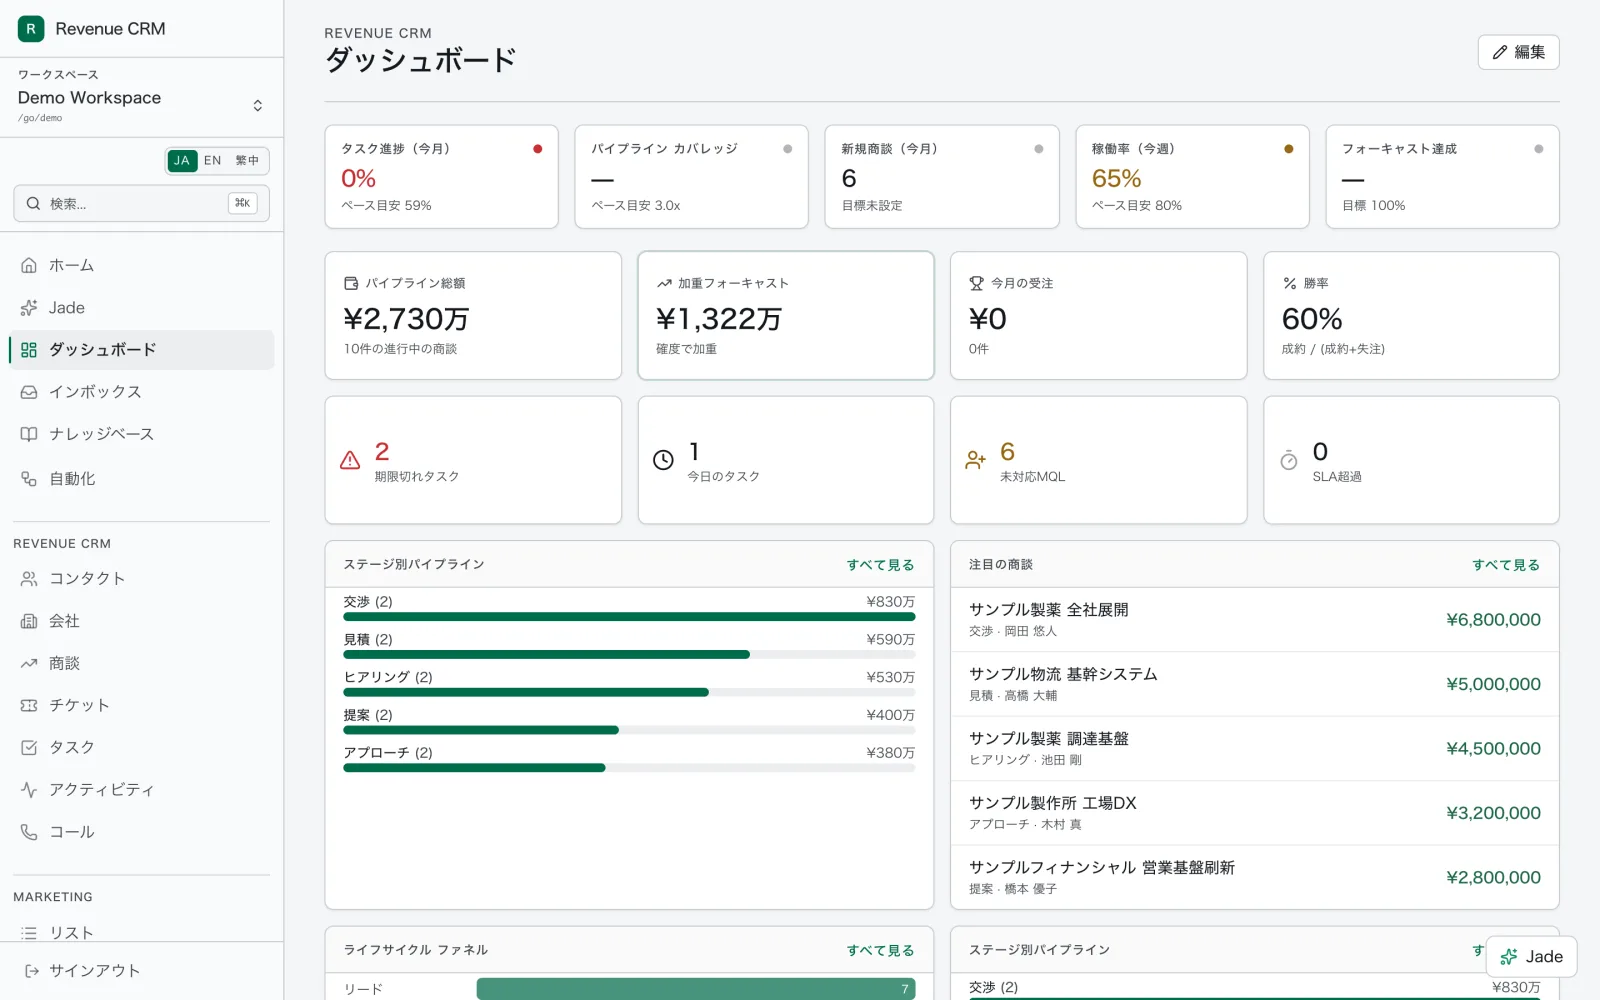
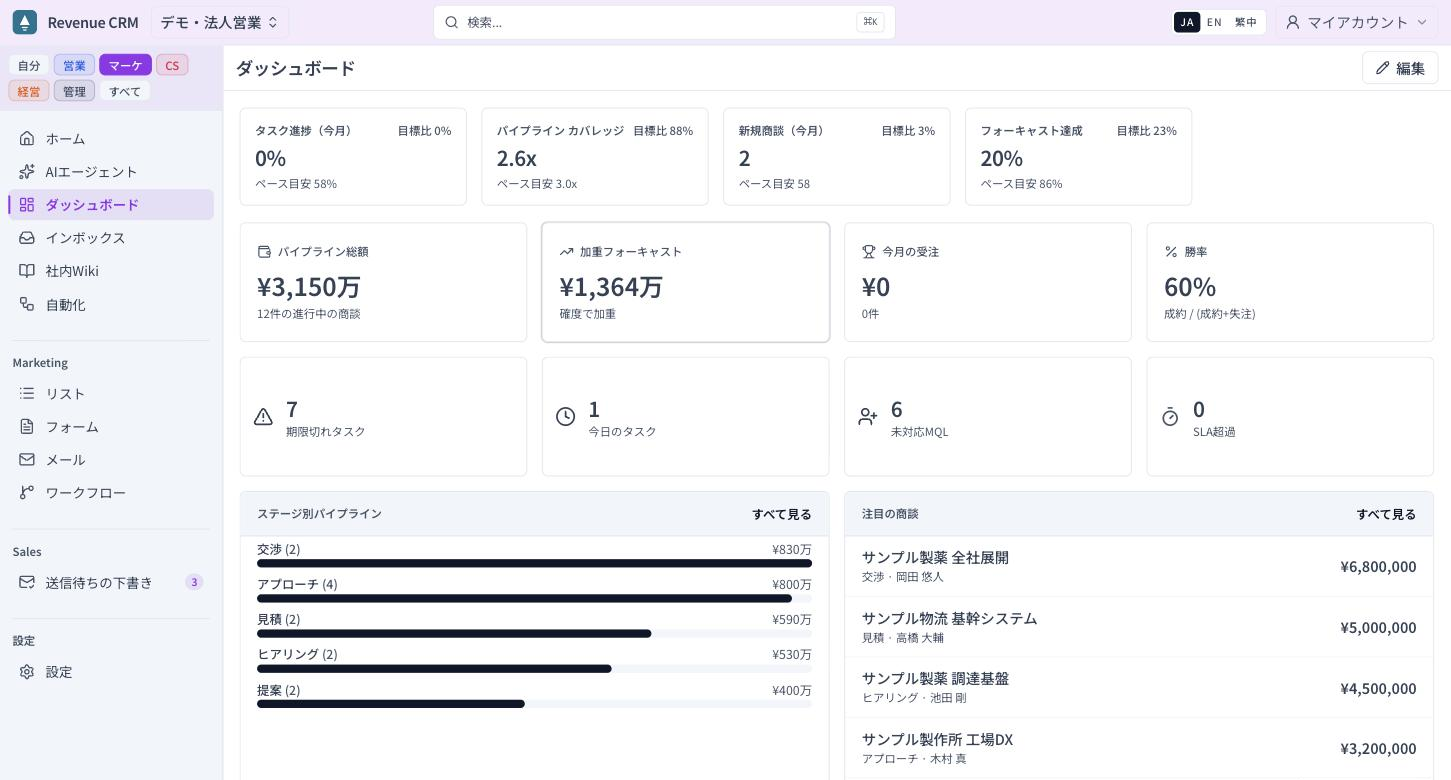
掲載素材を現行のロゴと画面に差し替える
媒体へ渡すのは docs/listing-assets/ ごと、という前提で中身を揃えた。

- 製品ロゴを #0E7490 に差し替え、SVGと1024/512/256/128/64のPNGを揃えた。
  旧ジェード緑 #006D4C は廃止。
- スクリーンショットを現行UIのものに差し替え、自動化ライブラリの1枚を追加した。
- 旧名のままだった screen-jade.png を外した。
- 何がどれで、何がまだ古いのかを README.md に書いた。

AIエージェント画面は、デモ環境のデプロイが main より古く見出しが英語のままなので
入れていない。デプロイ後に撮り直して追加する。

Claude-Session: https://claude.ai/code/session_01VKJWYJmQKX7Dj79s1g3fNb

diff --git a/docs/listing-assets/README.md b/docs/listing-assets/README.md
@@ -1,0 +1,23 @@
+# Revenue CRM 掲載用素材
+
+転記元の文言・数値は `../crm-listing-master.md`。このフォルダは画像だけ。
+
+最終更新: 2026-09-20
+
+## 中身
+
+| ファイル | 用途 |
+|---|---|
+| `revenue-crm-logo.svg` | 製品ロゴ（正）。地 #0E7490 / 図形 白 |
+| `revenue-crm-logo-{1024,512,256,128,64}.png` | 同上。正方形。媒体の指定サイズに近いものを選ぶ |
+| `screen-dashboard.png` | ダッシュボード（1451x780） |
+| `screen-deals.png` | 商談カンバン（1451x780） |
+| `screen-automations.png` | 自動化ライブラリ175本（1451x780） |
+
+会社ロゴは `public/images/common/consilegy-logo-2026.svg`（カラー）と `consilegy-logo-white.svg`（白）。
+
+## 注意
+
+- **旧ジェードグリーン #006D4C のロゴは使わない。** 2026-09-20時点で `public/images/crm/logo/` にはまだ旧色が置かれている（要差し替え）。翡翠・Jadeの由来説明も書かない。
+- **AIエージェント画面のスクショは入れていない。** デモ環境のデプロイが main より古く、見出しが英語（"the AI agent"）のままのため。デプロイ後に撮り直して追加する。
+- スクショは2026-09-18にデモ環境（法人営業エディション）から取得。右下に出るAIエージェントの呼び出しボタンは、同じ理由で下端60pxを切り落としてある。
